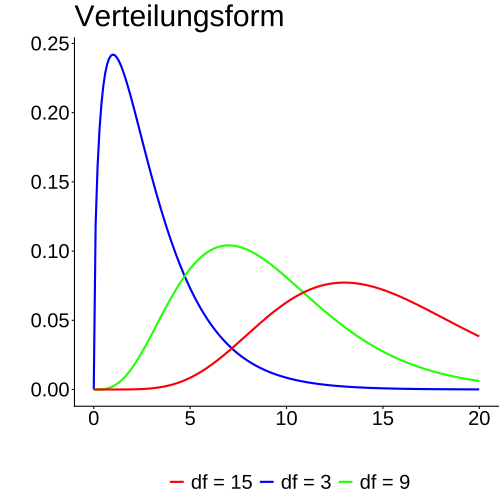
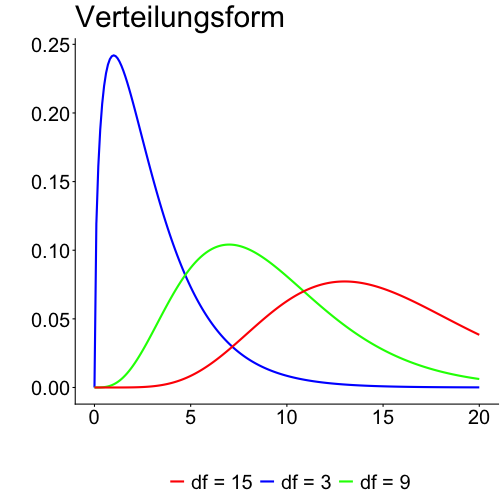
“update”

diff --git a/Statistik_II_10.html b/Statistik_II_10.html
@@ -4,6 +4,7 @@
     <title>Einheit 10</title>
     <meta charset="utf-8" />
     <meta name="author" content="Prof. Dr. Stephan Goerigk" />
+    <meta name="date" content="2026-04-27" />
     <script src="libs/header-attrs/header-attrs.js"></script>
     <link href="libs/remark-css/hygge.css" rel="stylesheet" />
     <script src="libs/jquery/jquery-3.6.0.min.js"></script>
@@ -129,7 +130,7 @@ class: top, left
 
 * ABER: Alle bislang kennengelernten statistischen Tests beinhalten **intervallskalierte AVs**
 
-* Was können wir tun, wenn wie eine **nominalskalierte AV** haben?
+* Was können wir tun, wenn wir eine **nominalskalierte AV** haben?
 
 Zunächst: nominalskalierte Variablen mit 2 Merkmalsausprägungen (dichotom aka. binär):
 
@@ -641,7 +642,7 @@ class: top, left
 
 **Berechnung**
 
-* Was wird benötigt: beobachtete und erwartete absolute Häufigkeiten für alle Merkmalstufen
+* Was wird benötigt: beobachtete und erwartete absolute Häufigkeiten für alle Merkmalsstufen
 
 * `\(\chi^2\)`-Wert gibt Abweichung der beobachteten von den erwarteten Häufigkeit an
 
@@ -849,7 +850,7 @@ class: top, left
 
 * VORSICHT: Signifikanzniveau `\((\alpha)\)` wird dann verdoppelt (z.B. wenn `\(\alpha=.05\)` wird in der Tabelle `\(\alpha=.10\)` angenommen)
 
-* Folge: `\(\chi^2_{krit}\)` verringert sich, Test wir eher signifkant (Teststärke nimmt zu)
+* Folge: `\(\chi^2_{krit}\)` verringert sich, Test wir eher signifikant (Teststärke nimmt zu)
 
 ---
 class: top, left
@@ -857,7 +858,7 @@ class: top, left
 
 #### Eindimensionaler `\(\chi^2\)`-Test 
 
-**Effekstärke:**
+**Effektstärke:**
 
 .pull-left[
 
@@ -949,7 +950,7 @@ class: top, left
 
   * `\(H_0:\)` Merkmale sind stochastisch unabhängig.
   
-  * `\(H_1:\)` Es besteht irgendeine Art von Zusammenhang zwischen den Steufen des einen Merkmals und den Stufen des anderen Merkmals
+  * `\(H_1:\)` Es besteht irgendeine Art von Zusammenhang zwischen den Stufen des einen Merkmals und den Stufen des anderen Merkmals
 
 ---
 class: top, left
@@ -1092,7 +1093,7 @@ addmargins(table(data$Behandlungserfolg, data$Behandlung), FUN = sum)
 .pull-right[
 **Beispiel - Therapieerfolg in größerer Stichprobe `\((N=100):\)`**
 
-* 45 Patient:innen hatten einen Therapieerfolg: `\(p_{ja}=\frac{49}{100}=0.49\)`
+* 49 Patient:innen hatten einen Therapieerfolg: `\(p_{ja}=\frac{49}{100}=0.49\)`
 
 * Gegenwahrscheinlichkeit: `\(p_{nein}=1-0.49=0.51\)`
 
@@ -1111,7 +1112,7 @@ class: top, left
 * Was bedeutet Stochastische Unabhängigkeit?
   
   * Merkmale beeinflussen einander nicht
-  * Ranghäufigkeiten müssen sich in jeder einzelnen Stufe des Merkmals widerspiegeln
+  * Randhäufigkeiten müssen sich in jeder einzelnen Stufe des Merkmals widerspiegeln
   * Ändert sich Verhältnis ist `\(H_0\)` verletzt
 
 **Berechnung erwarteter Häufigkeiten unter Annahme der `\(H_0:\)`**
@@ -1260,7 +1261,7 @@ class: top, left
 
 &lt;small&gt;
 
-`$$\chi^2_{emp} = \sum\limits _{i=1}^{k}\sum\limits _{j=1}^{l}\frac{(f_{bij} - f_{eij})^2}{f_{eij}} = \frac{(36 - 24.5)^2}{24.5} + \frac{(13 - 25.5)^2}{24.5} +\frac{(14 - 25.5)^2}{24.5} + \frac{(37 - 25.5)^2}{25.5}=21.17$$`
+`$$\chi^2_{emp} = \sum\limits _{i=1}^{k}\sum\limits _{j=1}^{l}\frac{(f_{bij} - f_{eij})^2}{f_{eij}} = \frac{(36 - 24.5)^2}{24.5} + \frac{(13 - 25.5)^2}{25.5} +\frac{(14 - 24.5)^2}{24.5} + \frac{(37 - 25.5)^2}{25.5}=21.17$$`
 mit:
 
 `$$df = (2-1) \cdot (2-1)=1$$`
@@ -1339,7 +1340,7 @@ class: top, left
 
 #### Zweidimensionaler `\(\chi^2\)`-Test
 
-**Effekstärke `\(w^2:\)`**
+**Effektstärke `\(w^2:\)`**
 
 * Auch hier lässt sich `\(w^2\)` verwenden
 
@@ -1355,7 +1356,7 @@ class: top, left
 
 #### Zweidimensionaler `\(\chi^2\)`-Test
 
-**Effekstärke Cramers Phi-Koeffizient (Cramers Index, CI)**
+**Effektstärke Cramers Phi-Koeffizient (Cramers Index, CI)**
 
 * Empirisches Effektstärkemaß, baut auf `\(w^2\)` auf
 
@@ -1376,7 +1377,7 @@ class: top, left
 
 .pull-left[
 
-**Effekstärke Cramers Phi-Koeffizient (Cramers Index, CI)**
+**Effektstärke Cramers Phi-Koeffizient (Cramers Index, CI)**
 
 `$$CI = \sqrt\frac{\chi^2}{N \cdot (R - 1)} = \sqrt\frac{21.17}{100 \cdot (2 - 1)}=0.46$$`
 ]
@@ -1509,7 +1510,7 @@ class: top, left
 
 #### Der Vierfelder `\(\chi^2\)`-Test
 
-**Effekstärke Phi-Koeffizient**
+**Effektstärke Phi-Koeffizient**
 
 * Effektstärke `\(\phi\)` entspricht Korrelation von 2 dichotomen Variablen
 
@@ -1537,7 +1538,7 @@ class: top, left
 
 * Prinzip: Vergleich von **beobachteten vs. theoretisch erwarteten** Häufigkeiten.
 
-* Für `\(\chi^2\)`-Tests existieren theoreitsch **unendlich viele `\(H_0\)` ** Möglichkeiten (häufig: Gleichverteilungsannahme)
+* Für `\(\chi^2\)`-Tests existieren theoretisch **unendlich viele `\(H_0\)` ** Möglichkeiten (häufig: Gleichverteilungsannahme)
 
 * **Eindimensionaler `\(\chi^2\)`-Test** prüft, ob sich Verteilung der Kategorien einer nominalskalierten Variable unterscheiden.
 
